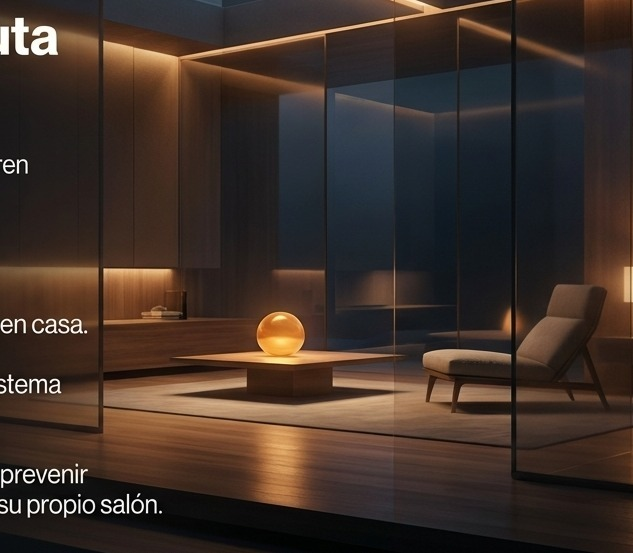
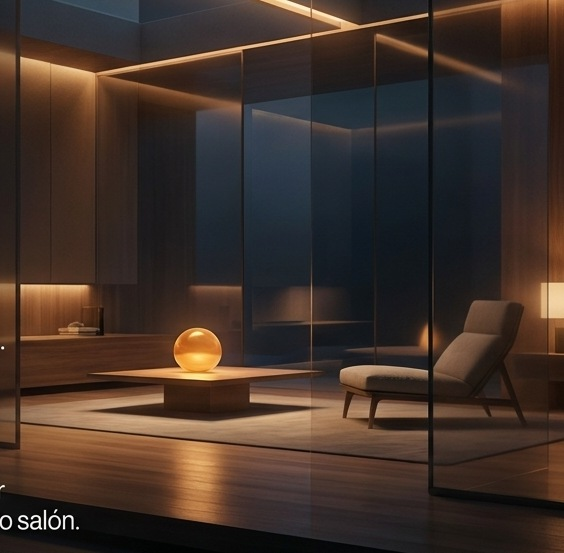
Hablar con Will: el texto manda, las letras del original salen
La información de Will se lee delante. El interior sigue. Sin restos
de la imagen original abajo a la izquierda.

diff --git a/src/index.css b/src/index.css
@@ -129,9 +129,11 @@
 .will-veil-chat {
   background: linear-gradient(
     90deg,
-    rgba(7, 8, 10, 0.1) 0%,
-    rgba(7, 8, 10, 0.02) 28%,
-    rgba(7, 8, 10, 0) 48%,
+    rgba(7, 8, 10, 0.84) 0%,
+    rgba(7, 8, 10, 0.7) 20%,
+    rgba(7, 8, 10, 0.38) 36%,
+    rgba(7, 8, 10, 0.1) 50%,
+    rgba(7, 8, 10, 0) 62%,
     rgba(7, 8, 10, 0) 100%
   );
 }
@@ -149,9 +151,10 @@
   .will-veil-chat {
     background: linear-gradient(
       180deg,
-      rgba(7, 8, 10, 0.12) 0%,
-      rgba(7, 8, 10, 0.02) 40%,
-      rgba(7, 8, 10, 0.1) 100%
+      rgba(7, 8, 10, 0.72) 0%,
+      rgba(7, 8, 10, 0.42) 38%,
+      rgba(7, 8, 10, 0.18) 62%,
+      rgba(7, 8, 10, 0.55) 100%
     );
   }
   .will-veil-topics,
@@ -185,14 +188,17 @@
 
 /* Texto de la app: marfil cálido. Se lee sobre la foto sin deslumbrar. */
 .will-copy {
-  color: #ead6b4;
+  color: #f4e6c8;
   text-shadow:
-    0 1px 2px rgba(8, 6, 2, 0.72),
-    0 0 14px rgba(8, 6, 2, 0.32);
+    0 1px 1px rgba(0, 0, 0, 0.98),
+    0 2px 14px rgba(0, 0, 0, 0.82),
+    0 0 22px rgba(0, 0, 0, 0.5);
 }
 .will-copy-muted {
-  color: #cbbba0;
-  text-shadow: 0 1px 2px rgba(8, 6, 2, 0.65);
+  color: #e4d4b4;
+  text-shadow:
+    0 1px 2px rgba(0, 0, 0, 0.95),
+    0 2px 12px rgba(0, 0, 0, 0.7);
 }
 
 /* Marcas extraídas del documento */

diff --git a/src/components/visual/SpaceShell.tsx b/src/components/visual/SpaceShell.tsx
@@ -12,9 +12,9 @@ const SCENE: Record<
   }
 > = {
   chat: {
-    photo: '/visual-system/space-page09.jpg?v=fid',
-    photoMobile: '/visual-system/space-page09-mobile.jpg?v=fid',
-    position: '62% 58%',
+    photo: '/visual-system/space-page09.jpg?v=txt1',
+    photoMobile: '/visual-system/space-page09-mobile.jpg?v=txt1',
+    position: '70% 58%',
     marks: [],
   },
   topics: {
